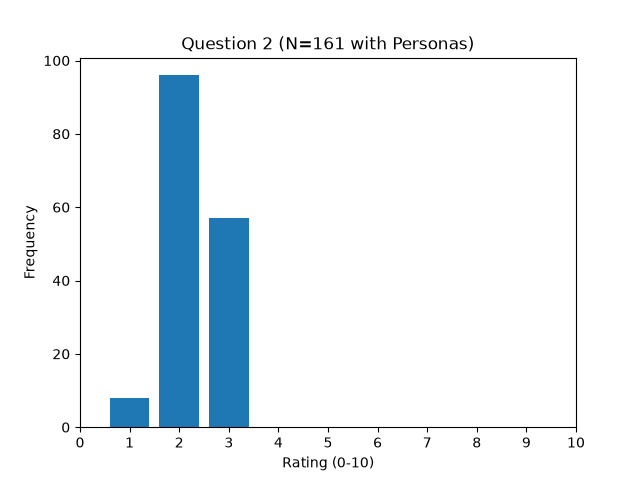
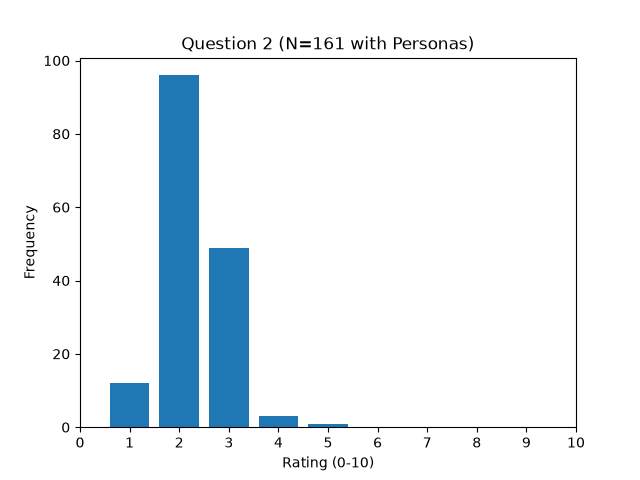
temp0.5結果

Changed region(s): [[0.3125, 0.4375, 0.4062, 0.5312], [0.4062, 0.8438, 0.5312, 0.9062], [0.1562, 0.7812, 0.25, 0.8438]]

diff --git a/Program/Program261007.py b/Program/Program261007.py
@@ -303,7 +303,7 @@ for i, persona in enumerate(trials):
             response = client.models.generate_content(
                 model="gemini-3-flash-preview",
                 contents=prompt,
-                config={"temperature": 0.0},
+                config={"temperature": 0.5},
             )
 
             if not response.text:
